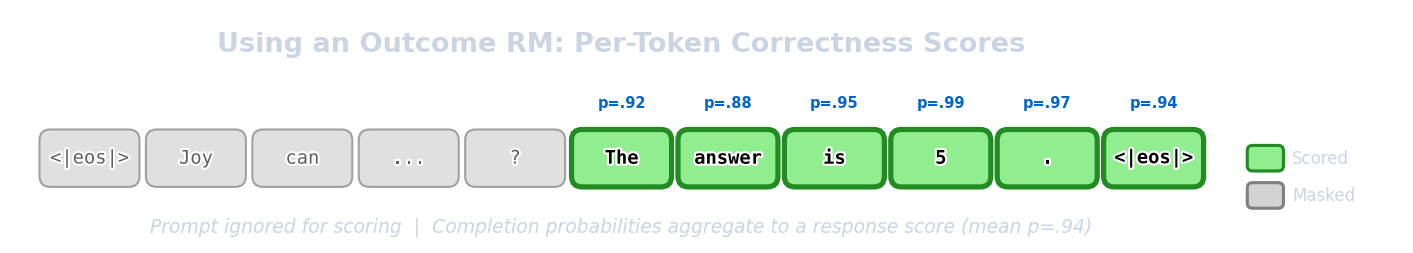
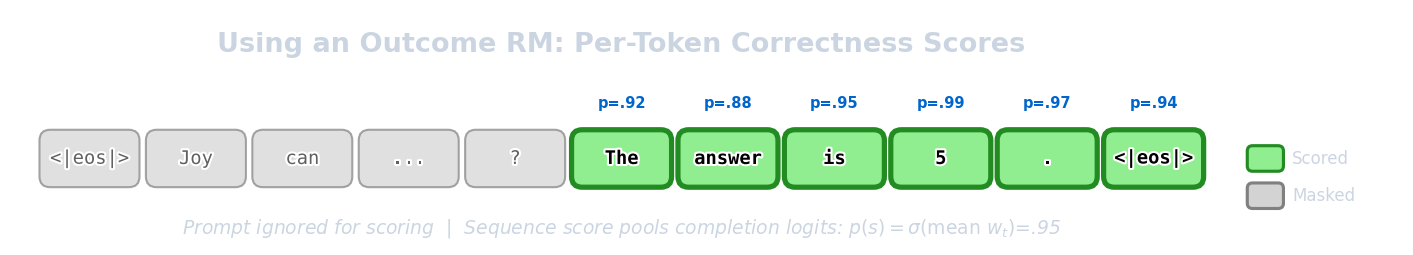
Chapter 5: present the ORM objective as sequence-level BCE
The prose called @eq:orm_loss a per-token BCE, but the cited formulation
(Lyu et al. 2025) pools per-token logits into p(s) = sigmoid(mean logit)
with one BCE term per sequence. Add the pooling equation, update both
code listings, figures, captions, and the comparison table; note that
Cobbe et al. 2021 / Lightman et al. 2023 used the per-token variant.

diff --git a/diagrams/scripts/generate_multilane_strips.py b/diagrams/scripts/generate_multilane_strips.py
@@ -88,7 +88,7 @@ def render_orm_diagram(output_path: Path, fmt: str = "png", dpi: int = 150,
     # === Title with source indicator ===
     ax.text(
         x_offset + n_tokens * box_w / 2, 4.2,
-        "Training Outcome RM: Offline Labels → Per-Token BCE",
+        "Training Outcome RM: Offline Labels → Sequence-Level BCE",
         ha="center", va="bottom", fontsize=14, fontweight="bold",
         color=INK_DARK if transparent else "black",
     )
@@ -136,13 +136,13 @@ def render_orm_diagram(output_path: Path, fmt: str = "png", dpi: int = 150,
 
     ax.text(x_offset - 0.2, y_outputs + 0.2, "Model", ha="right", va="center",
             fontsize=9, fontweight="bold", color="#1565C0")
-    ax.text(x_offset - 0.2, y_outputs - 0.05, r"predicts $p_t$", ha="right", va="center",
+    ax.text(x_offset - 0.2, y_outputs - 0.05, r"logits $w_t$", ha="right", va="center",
             fontsize=9, fontweight="bold", color="#1565C0")
 
-    probs = [".92", ".88", ".95", ".99", ".97", ".94"]  # 6 completion tokens
-    for i, p in enumerate(probs):
+    logit_values = ["2.4", "2.0", "2.9", "4.6", "3.5", "2.8"]  # 6 completion tokens, mean 3.0
+    for i, w in enumerate(logit_values):
         x = x_offset + (prompt_end + i) * box_w + box_w/2 - 0.05
-        ax.text(x, y_outputs + 0.1, f"$p$={p}", ha="center", va="center",
+        ax.text(x, y_outputs + 0.1, f"$w$={w}", ha="center", va="center",
                 fontsize=9, color="#0066CC", fontweight="bold")
 
     # === Right side: Loss and Usage ===
@@ -155,21 +155,21 @@ def render_orm_diagram(output_path: Path, fmt: str = "png", dpi: int = 150,
         facecolor="#FFEBEE", edgecolor="#F44336", linewidth=2
     )
     ax.add_patch(loss_box)
-    ax.text(right_x + 0.75, y_labels + 0.1, r"$\mathrm{BCE}(p_t, z_t)$",
+    ax.text(right_x + 0.75, y_labels + 0.1, r"$\mathrm{BCE}(p(s), z)$",
             ha="center", va="center", fontsize=9, fontweight="bold", color="#C62828")
 
-    # Aggregate box
+    # Pooling box: sequence score from the mean completion logit
     agg_box = FancyBboxPatch(
         (right_x, y_outputs - 0.15), 1.5, 0.5,
         boxstyle="round,pad=0.05",
         facecolor="#E8F5E9", edgecolor="#4CAF50", linewidth=2
     )
     ax.add_patch(agg_box)
-    ax.text(right_x + 0.75, y_outputs + 0.1, "Aggregate",
+    ax.text(right_x + 0.75, y_outputs + 0.1, r"$\sigma(\mathrm{mean}\ w_t)$",
             ha="center", va="center", fontsize=9, fontweight="bold", color="#2E7D32")
 
     # Final score
-    ax.text(right_x + 1.85, y_outputs + 0.1, "→ 0.94",
+    ax.text(right_x + 1.85, y_outputs + 0.1, r"→ $p(s)$=.95",
             ha="left", va="center", fontsize=11, fontweight="bold", color="#2E7D32")
 
     # === Notes at bottom ===
@@ -178,7 +178,7 @@ def render_orm_diagram(output_path: Path, fmt: str = "png", dpi: int = 150,
             ha="center", va="center", fontsize=9, color="#606060",
             bbox=dict(boxstyle="round,pad=0.3", facecolor="#F5F5F5", edgecolor="#E0E0E0"))
 
-    ax.set_xlim(-0.3, x_offset + n_tokens * box_w + 3.2)
+    ax.set_xlim(-0.3, x_offset + n_tokens * box_w + 3.8)
     ax.set_ylim(-0.2, 4.7)
     ax.set_aspect("equal")
     ax.axis("off")

diff --git a/diagrams/scripts/generate_token_strips.py b/diagrams/scripts/generate_token_strips.py
@@ -374,7 +374,7 @@ STRIPS = [
         tokens=["<|eos|>", "Joy", "can", "...", "?", "The", "answer", "is", "5", ".", "<|eos|>"],
         highlight={5, 6, 7, 8, 9, 10},  # completion tokens
         masked={0, 1, 2, 3, 4},  # prompt tokens
-        annotation="Prompt ignored for scoring  |  Completion probabilities aggregate to a response score (mean p=.94)",
+        annotation=r"Prompt ignored for scoring  |  Sequence score pools completion logits: $p(s)=\sigma(\mathrm{mean}\ w_t)$=.95",
         highlight_label="Scored",
         token_labels={
             5: "p=.92",

diff --git a/book/chapters/05-reward-models.md b/book/chapters/05-reward-models.md
@@ -251,16 +251,21 @@ learns to label a model completion as correct or incorrect, in addition to the o
 are language models, with a small scalar head that outputs predictions on a per-token basis. 
 > We implement this scalar head as a single bias parameter and single gain parameter that operate on the logits outputted by the language model's final unembedding layer.
 
-To translate, this is implemented as a language modeling head that can predict two classes per token (1 for correct, 0 for incorrect), rather than a classification head of a traditional RM that outputs one logit for the entire sequence.
-Formally, following [@lyu2025exploring] this is a per-token binary cross-entropy loss:
+To translate, this is implemented as a small head that outputs a scalar logit at every token, rather than a classification head of a traditional RM that outputs one logit for the entire sequence.
+Formally, following [@lyu2025exploring] the objective is a binary cross-entropy loss applied once per sequence:
 
 $$\mathcal{L}_{\text{CE}}(\theta) = -\mathbb{E}_{(s,r)\sim \mathcal{D}}\left[r\log p_\theta(s) + (1-r)\log(1-p_\theta(s))\right]$$ {#eq:orm_loss}
 
-where $r \in \{0,1\}$ is a binary label where 1 applies to a correct answer to a given prompt and 0 applies to an incorrect answer, and $p_\theta(s)$ is the scalar proportional to the predicted probability of correctness from the model being trained.
-In code, this outcome label is copied onto every completion token, while prompt tokens are masked with `-100` so they do not contribute to the loss.
+where $r \in \{0,1\}$ is a binary label where 1 applies to a correct answer to a given prompt and 0 applies to an incorrect answer, and $p_\theta(s)$ is the model's predicted probability that the sequence $s$ is correct.
+The per-token logits $w_\theta(s_t)$ become that sequence probability by averaging over the $T$ completion tokens and applying a sigmoid:
 
-Implementing an outcome reward model (and other types, as we'll see with the Process Reward Model) involves applying the cross-entropy loss per-token based on whether the completion is a correct sample.
-This is far closer to the language modeling loss, where it does not need the structured chosen-rejected nature of standard Bradley-Terry reward models.
+$$p_\theta(s) = \sigma\left(\frac{1}{T}\sum_{t=1}^{T} w_\theta(s_t)\right)$$ {#eq:orm_pooling}
+
+Every completion token thus contributes to a single loss term through the pooled score -- the binary cross-entropy is *not* applied to each token's logit independently (note that the sigmoid of the mean logit is not the mean of the per-token probabilities).
+In code, the outcome label is copied onto every completion token to mark which positions pool into $p_\theta(s)$, while prompt tokens are masked with `-100` so they do not contribute.
+
+Implementing an outcome reward model involves mean-pooling the per-token logits over each completion and applying the cross-entropy loss to the pooled prediction based on whether the completion is a correct sample.
+Like the language modeling loss, this does not need the structured chosen-rejected nature of standard Bradley-Terry reward models -- every sequence carries its own label.
 In the simplified ORM training setup below, we are not sampling new tokens or training an LLM on next-token prediction; we feed a fixed prompt-completion sequence through the backbone and train the ORM head to predict correctness labels.
 
 The model structure could follow as:
@@ -297,16 +302,16 @@ class OutcomeRewardModel(nn.Module):
         # Inference-only forward pass: no loss is computed.
         if labels is None:
             return None, logits
-        # Only compute loss on completion tokens (labels 0 or 1)
-        # Prompt tokens have labels = -100
-        mask = labels != -100
-        loss = None
-        if mask.any():
-            loss = F.binary_cross_entropy_with_logits(
-                logits[mask], labels[mask].float()
-            )
-        else:
-            loss = logits.sum() * 0
+        # Pool completion tokens (labels 0 or 1) into one logit per sequence.
+        # Prompt tokens have labels = -100 and are excluded by the mask.
+        mask = (labels != -100).float()
+        counts = mask.sum(dim=1)
+        seq_logits = (logits * mask).sum(dim=1) / counts
+        # Completion tokens repeat the outcome, so the masked mean recovers
+        # the sequence's 0/1 label.
+        seq_labels = (labels.float() * mask).sum(dim=1) / counts
+        # p(s) = sigmoid(mean logit): one BCE term per sequence
+        loss = F.binary_cross_entropy_with_logits(seq_logits, seq_labels)
         return loss, logits
 ```
 
@@ -320,22 +325,24 @@ logits_per_token = model.head(hidden).squeeze(-1)  # (batch, seq_len)
 # This will sometimes be compressed as model.forward() in other implementations
 
 # Binary labels: 1=correct, 0=incorrect (prompt tokens masked as -100)
-mask = labels != -100
-loss = F.binary_cross_entropy_with_logits(
-    logits_per_token[mask], labels[mask].float()
-)
+mask = (labels != -100).float()
+counts = mask.sum(dim=1)
+mean_logits = (logits_per_token * mask).sum(dim=1) / counts  # (batch,)
+outcome = (labels.float() * mask).sum(dim=1) / counts        # (batch,)
+# One BCE term per sequence: p(s) = sigmoid(mean completion logit)
+loss = F.binary_cross_entropy_with_logits(mean_logits, outcome)
 ```
 
-The important intuition here is that an ORM will output a probability of correctness at every token in the sequence (judged only by the final answer -- reasoning errors are not captured in the ORM training process).
-This can be a noisy process, as the updates and loss propagate per token depending on outcomes and attention mappings.
+The important intuition here is that an ORM still outputs a logit at every token in the sequence, but supervision arrives through the pooled sequence score (judged only by the final answer -- reasoning errors are not captured in the ORM training process).
+This can be a noisy process, as every completion token shares credit for a single outcome label regardless of where a solution actually goes right or wrong.
 
-![At inference time, an outcome reward model outputs per-token correctness probabilities over completion tokens. Prompt tokens are ignored for scoring, and the completion probabilities can be aggregated into a response-level score for verification, filtering, or reranking.](images/orm_inference.png){#fig:orm_inference data-dark-src="images/orm_inference-dark.png"}
+![At inference time, an outcome reward model outputs per-token correctness scores over completion tokens. Prompt tokens are ignored for scoring, and the completion logits are averaged (then squashed with a sigmoid) into a response-level score for verification, filtering, or reranking.](images/orm_inference.png){#fig:orm_inference data-dark-src="images/orm_inference-dark.png"}
 
-![Training an outcome reward model uses offline labels from a verifier or dataset (e.g., all 1s for correct completions). Each completion token is trained with binary cross-entropy against the outcome label, and per-token probabilities are aggregated into a final score for verification, filtering, or reranking.](images/orm_training.png){#fig:orm_training data-dark-src="images/orm_training-dark.png"}
+![Training an outcome reward model uses offline labels from a verifier or dataset (e.g., all 1s for correct completions). The per-token logits over completion tokens are mean-pooled into a sequence probability of correctness, which is trained with binary cross-entropy against the outcome label.](images/orm_training.png){#fig:orm_training data-dark-src="images/orm_training-dark.png"}
 
 These models have continued to be used, but are less supported in open-source RLHF tools. 
-For example, the same type of ORM was used in the seminal work *Let's Verify Step by Step* [@lightman2023let], but without the language modeling prediction piece of the loss.
-Then, the final loss is a cross-entropy loss on every token, predicting whether the final answer is correct.
+For example, a closely related ORM was used in the seminal work *Let's Verify Step by Step* [@lightman2023let], but without the language modeling prediction piece of the loss.
+There, following the original recipe of [@cobbe2021gsm8k], the cross-entropy loss is applied to the prediction at every token independently -- each token predicts whether the final answer is correct -- rather than pooled into one sequence score as in @eq:orm_pooling.
 
 Given the lack of support, the term outcome reward model (ORM) has been used in multiple ways. 
 Some literature, e.g. [@lyu2025exploring], continues to use the original definition from Cobbe et al. 2021; others use it more broadly for any verifier trained to predict whether a completion is correct.
@@ -439,7 +446,7 @@ Below is a summary of what the models predict and how they are trained.
 | Model Class | What They Predict | How They Are Trained | LM structure |
 |------------|------------------|---------------------|--------------|
 | **Reward Models** | Sequence-level quality score $r_\theta(x, y)$ | Contrastive loss between pairwise (or N-wise) comparisons between completions | Linear head on EOS/last-token hidden state |
-| **Outcome Reward Models** | Probability that an answer is correct per-token | Labeled outcome pairs (e.g., success/failure on verifiable domains) | Per-token binary cross-entropy head; labels repeat the outcome label |
+| **Outcome Reward Models** | Probability that an answer is correct | Labeled outcome pairs (e.g., success/failure on verifiable domains) | Per-token logit head, mean-pooled into a sequence probability trained with binary cross-entropy |
 | **Process Reward Models** | A reward or score for intermediate steps at end of reasoning steps | Trained using intermediate feedback or stepwise annotations (trained per token in reasoning step) | Per-token head predicting step correctness (-1, 0, 1) |
 | **Value Functions** | The expected return given the current state | Trained via regression to each point in sequence | A scalar regression head with per-token outputs |
 Table: Comparing types of reward models. {#tbl:rm_compare}
@@ -479,9 +486,9 @@ The models handle data differently at inference time (once they've been trained)
 **Outcome RM:**
 
 - *Input:* prompt $x$ + completion $y$
-- *Output:* per-token probabilities $p_t \approx P(\text{correct at token } t)$ over completion tokens
-- *Usage:* score finished candidates; aggregate via mean, min (tail risk), or product $\prod_t p_t$ (equivalently, sum log-probabilities $\sum_t \log p_t$)
-- *Aggregation choices:* mean correctness, minimum $p_t$, average over last $m$ tokens, or threshold flagging if any $p_t < \tau$
+- *Output:* per-token logits $w_t$ over completion tokens, pooled into a sequence probability $p(s) = \sigma(\frac{1}{T}\sum_t w_t)$
+- *Usage:* score finished candidates with $p(s)$ for verification, filtering, or reranking
+- *Aggregation choices:* the training-matched pooled score is the default; heuristics over per-token probabilities (minimum $p_t$ for tail risk, threshold flagging if any $p_t < \tau$) are also used
 
 **Process RM:**
 
@@ -500,7 +507,7 @@ The models handle data differently at inference time (once they've been trained)
 In summary, the way to understand the different models is:
 
 - **RM:** "How good is this whole answer?" → scalar value
-- **ORM:** "Which parts look correct?" → per-token correctness
+- **ORM:** "Is this outcome correct?" → pooled correctness probability (with per-token scores to inspect)
 - **PRM:** "Are the reasoning steps sound?" → per-step scores
 - **Value:** "How much reward remains from here?" → baseline for RL advantages
 
